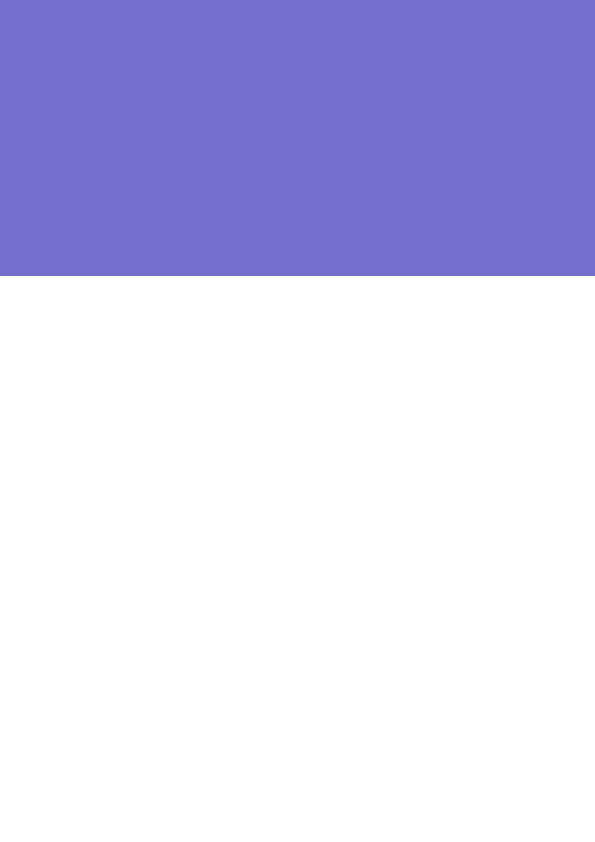
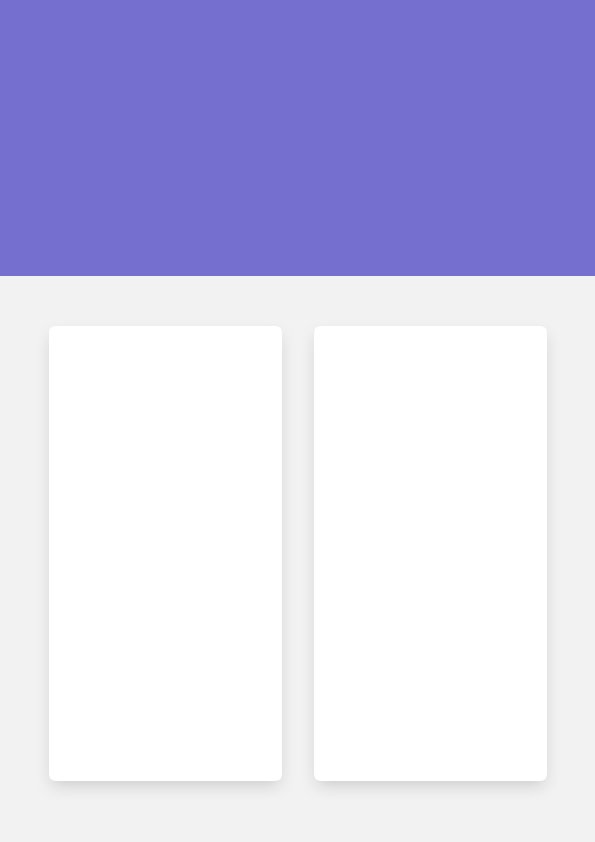
Updated Layout + Added headings

Changed region(s): [[0.0908, 0.9264, 0.484, 0.9572], [0.5445, 0.9264, 0.9076, 0.9572]]

diff --git a/script.py b/script.py
@@ -2,11 +2,12 @@ import urllib.request
 from bs4 import BeautifulSoup
 from fpdf import FPDF
 
+github = 'WouterMolhoek'
 
 # Repositories URL
-url_repos = 'https://github.com/WouterMolhoek?tab=repositories'
+url_repos = 'https://github.com/' + github + '?tab=repositories'
 # Github Profile URL
-url_profile = 'https://github.com/WouterMolhoek'
+url_profile = 'https://github.com/' + github
 
 
 # Scrape data from the given URL
@@ -23,7 +24,7 @@ def format_req_data():
     repos = scrape_raw_data(url_repos)
 
     # Get the profile image
-    profile_img = profile.find(class_='avatar width-full avatar-before-user-status')['src']
+    profile_img = profile.find(class_='u-photo d-block position-relative')['href']
 
     # Get the profile name
     name = profile.find(itemprop='name').get_text()
@@ -63,17 +64,25 @@ def create_pdf():
 
     # Add layout-image to the page
     pdf.image('layout-pdf.jpg', x=0, y=0, w=210)
-    pdf.cell(200, 10, txt="{}".format(''), ln=1)
 
     # Add profile-image to the page
-    pdf.image('profile-image.jpg', x=10, y=10, w=70)
+    pdf.image('profile-image.jpg', x=18, y=8, w=81)
     pdf.cell(200, 10, txt="{}".format(''), ln=1)
 
-    # Add UserName
-    pdf.set_font("Arial", size=15)
-    pdf.cell(200, 0, txt=data[3], ln=1, align="C")
+    # Add UserName, make it BOLD
+    pdf.set_font("Arial", size=22, style="B")
+    pdf.cell(260, -15, txt=data[3], ln=1, align="C")
 
-    pdf.output("Github-Profile.pdf")
+    # Add language heading
+    pdf.set_font("Arial", size=22)
+    pdf.cell(70, 250, txt='Languages', ln=0, align="C")
+
+    # Add Contribution heading
+    pdf.set_font("Arial", size=22)
+    pdf.cell(120, 250, txt='Contribution', ln=1, align="C")
+
+    # Save the file
+    pdf.output('Github-Profile-(' + data[3] + ').pdf')
 
 
 create_pdf()
